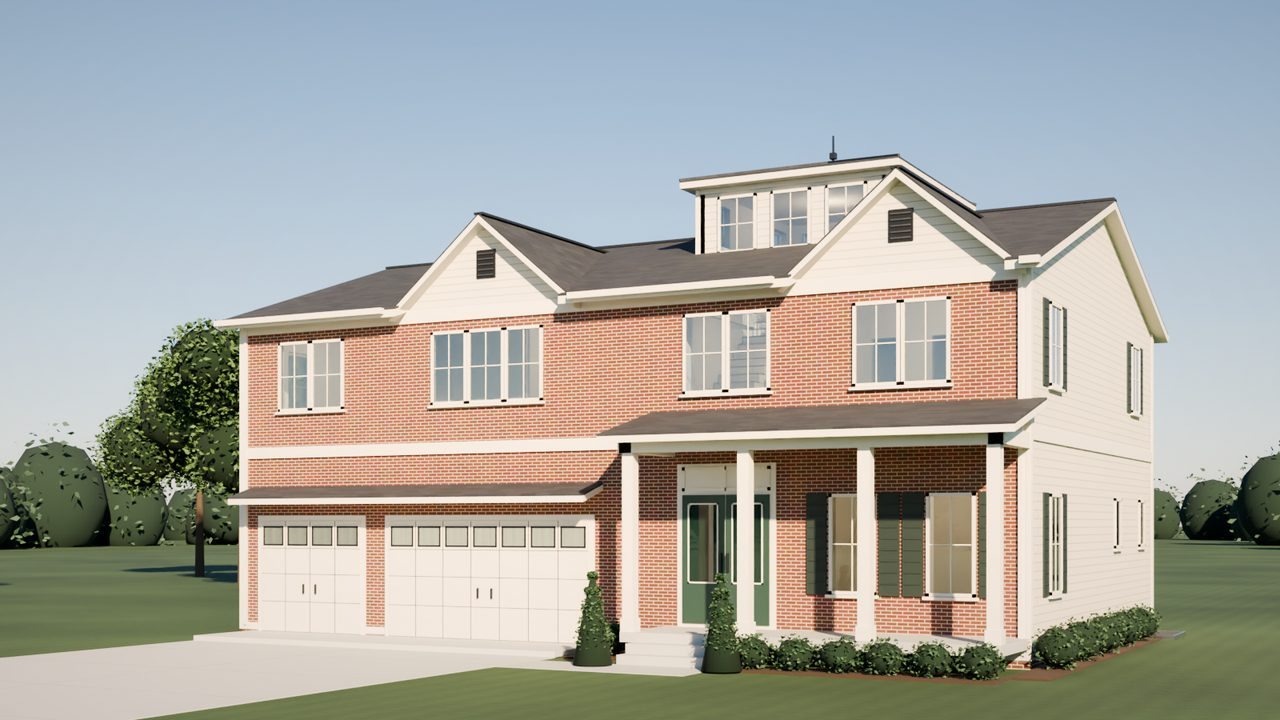
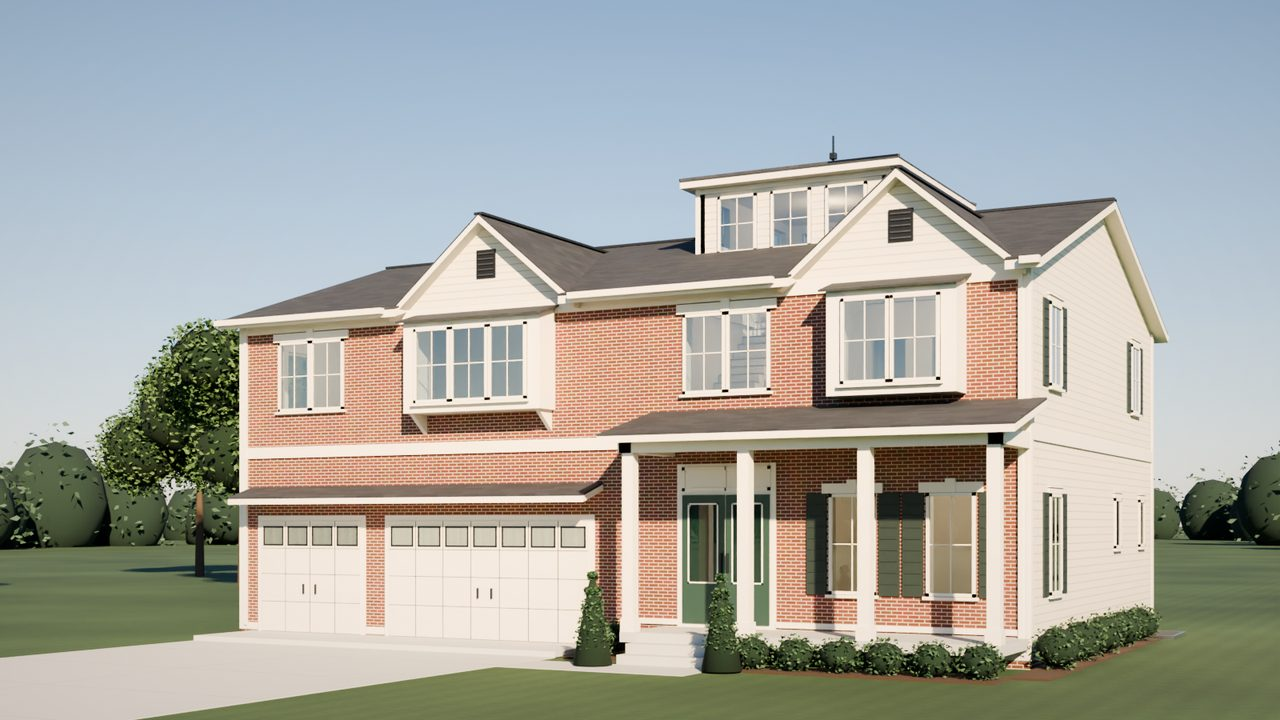
New brick pictures with the bump-outs for every home
Claude-Session: https://claude.ai/code/session_01LcUu1yMTHs7qUW5E51HSvp

diff --git a/index.html b/index.html
@@ -443,7 +443,7 @@
       var nf = Math.min(13 / k, l.w * 0.5); s.appendChild(r); s.appendChild(sv('text', { x: l.x + l.w / 2, y: y + l.d / 2 + nf * 0.36, 'class': 'lotn' + (sel ? ' sel' : cls === 'open' ? '' : ' dim'), 'font-size': nf }, String(l.n)));
     });
     var k = $('key'); k.textContent = '';
-    [['#cfdccb', 'Open, fits your home'], ['#1f3d32', 'Your lot'], ['#e4e6e1', 'Does not fit'], ['#e9dcc5', 'On hold'], ['#dcdedb', 'Sold']].forEach(function (q) { var i = el('i'); i.style.background = q[0]; k.appendChild(el('span', {}, [i, q[1]])); });
+    [['#cfdccb', 'Open, fits your home'], ['#121416', 'Your lot'], ['#e4e6e1', 'Does not fit'], ['#e9dcc5', 'On hold'], ['#dcdedb', 'Sold']].forEach(function (q) { var i = el('i'); i.style.background = q[0]; k.appendChild(el('span', {}, [i, q[1]])); });
   }
   /* the home drawn on its lot, to scale */
   function plot(c, lt) {
@@ -561,7 +561,7 @@
     if (from === to) { a.textContent = usd(to); return; }
     (function tick(now) { var k = Math.min(1, (now - t0) / 380), e = 1 - Math.pow(1 - k, 3); a.textContent = usd(Math.round((from + (to - from) * e) / 100) * 100); if (k < 1) cnt = requestAnimationFrame(tick); else a.textContent = usd(to); })(t0);
   }
-  function go(step) { if (!canGo(step)) return; S.step = step; if (step !== 'summary' && step !== 'options' && step !== 'look' && step !== 'home') S.shot = 'ext'; try { history.replaceState(null, '', '#' + step); } catch (e) { /* fine without it */ } render(); window.scrollTo(0, 0); }
+  function go(step) { if (!canGo(step)) return; S.step = step; if (step !== 'summary' && step !== 'options' && step !== 'look' && step !== 'home') S.shot = 'ext'; if (step === 'summary' && S.suite) S.shot = 'pair'; try { history.replaceState(null, '', '#' + step); } catch (e) { /* fine without it */ } render(); window.scrollTo(0, 0); }
   $('next').addEventListener('click', function () { var i = STEPS.map(function (s) { return s[0]; }).indexOf(S.step); if (STEPS[i + 1]) go(STEPS[i + 1][0]); });
   $('back').addEventListener('click', function () { var i = STEPS.map(function (s) { return s[0]; }).indexOf(S.step); if (i > 0) go(STEPS[i - 1][0]); });
   var rz = 0; window.addEventListener('resize', function () { clearTimeout(rz); rz = setTimeout(function () { if (S.step === 'community' || S.step === 'lot') stage(); }, 150); });
